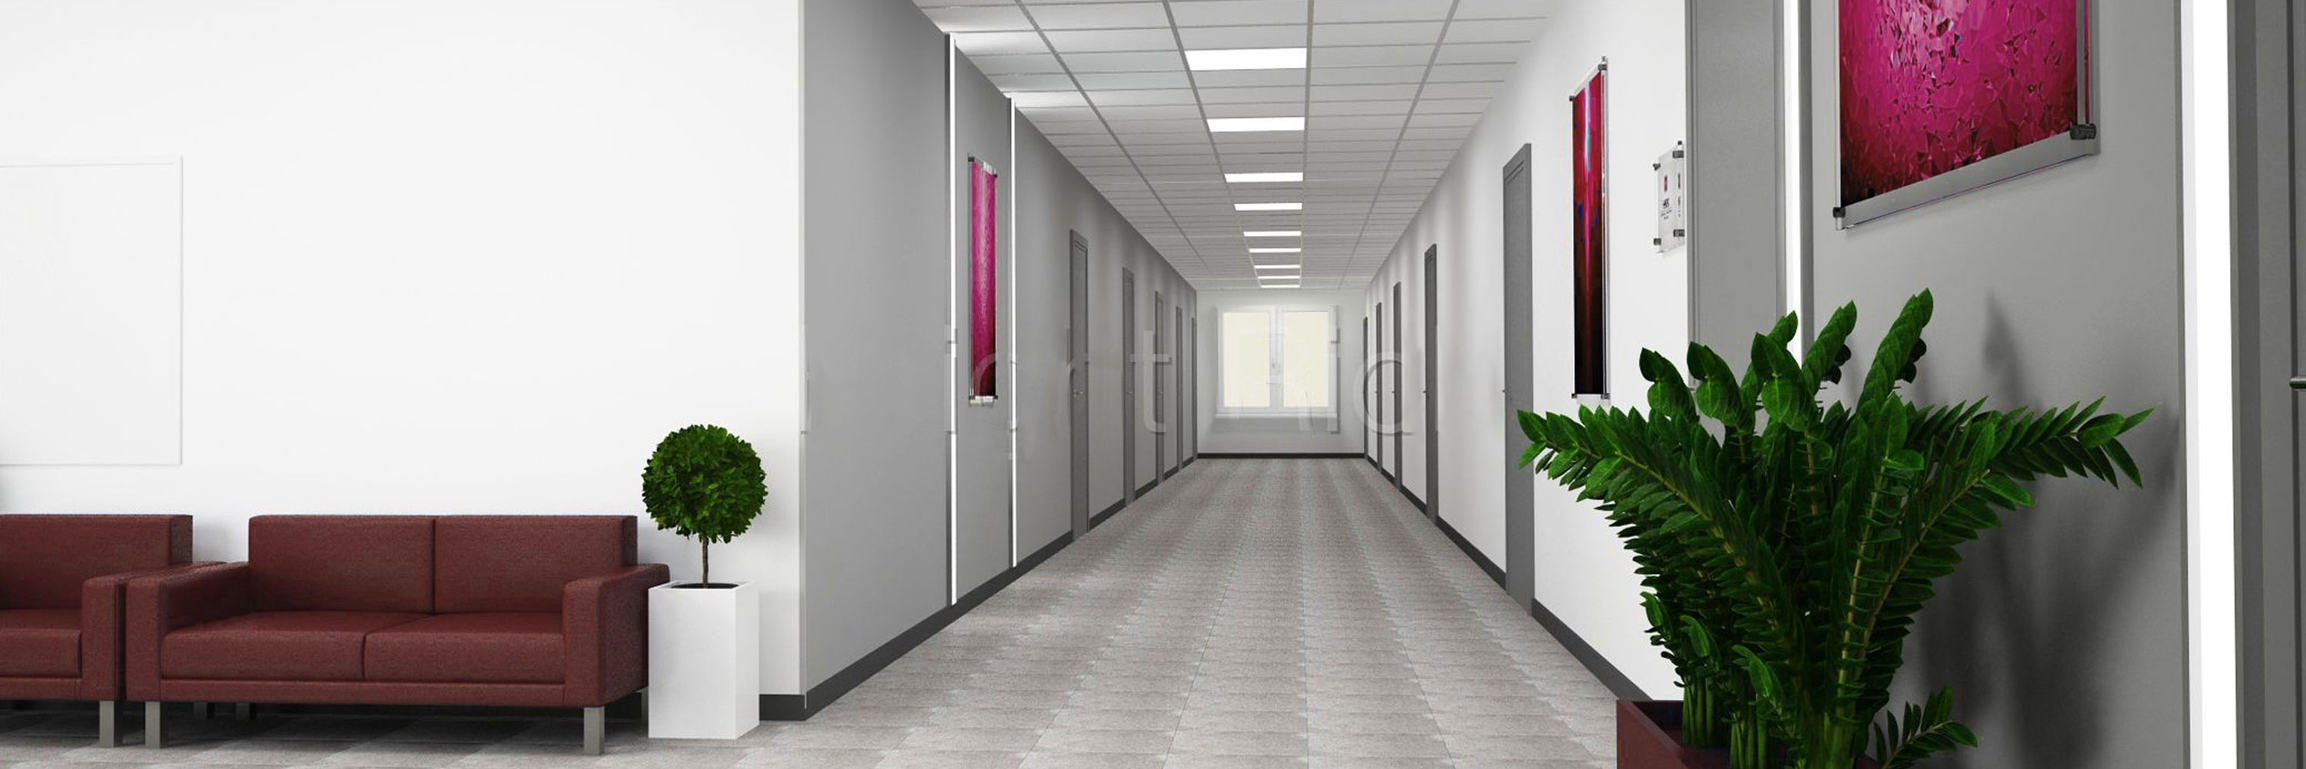
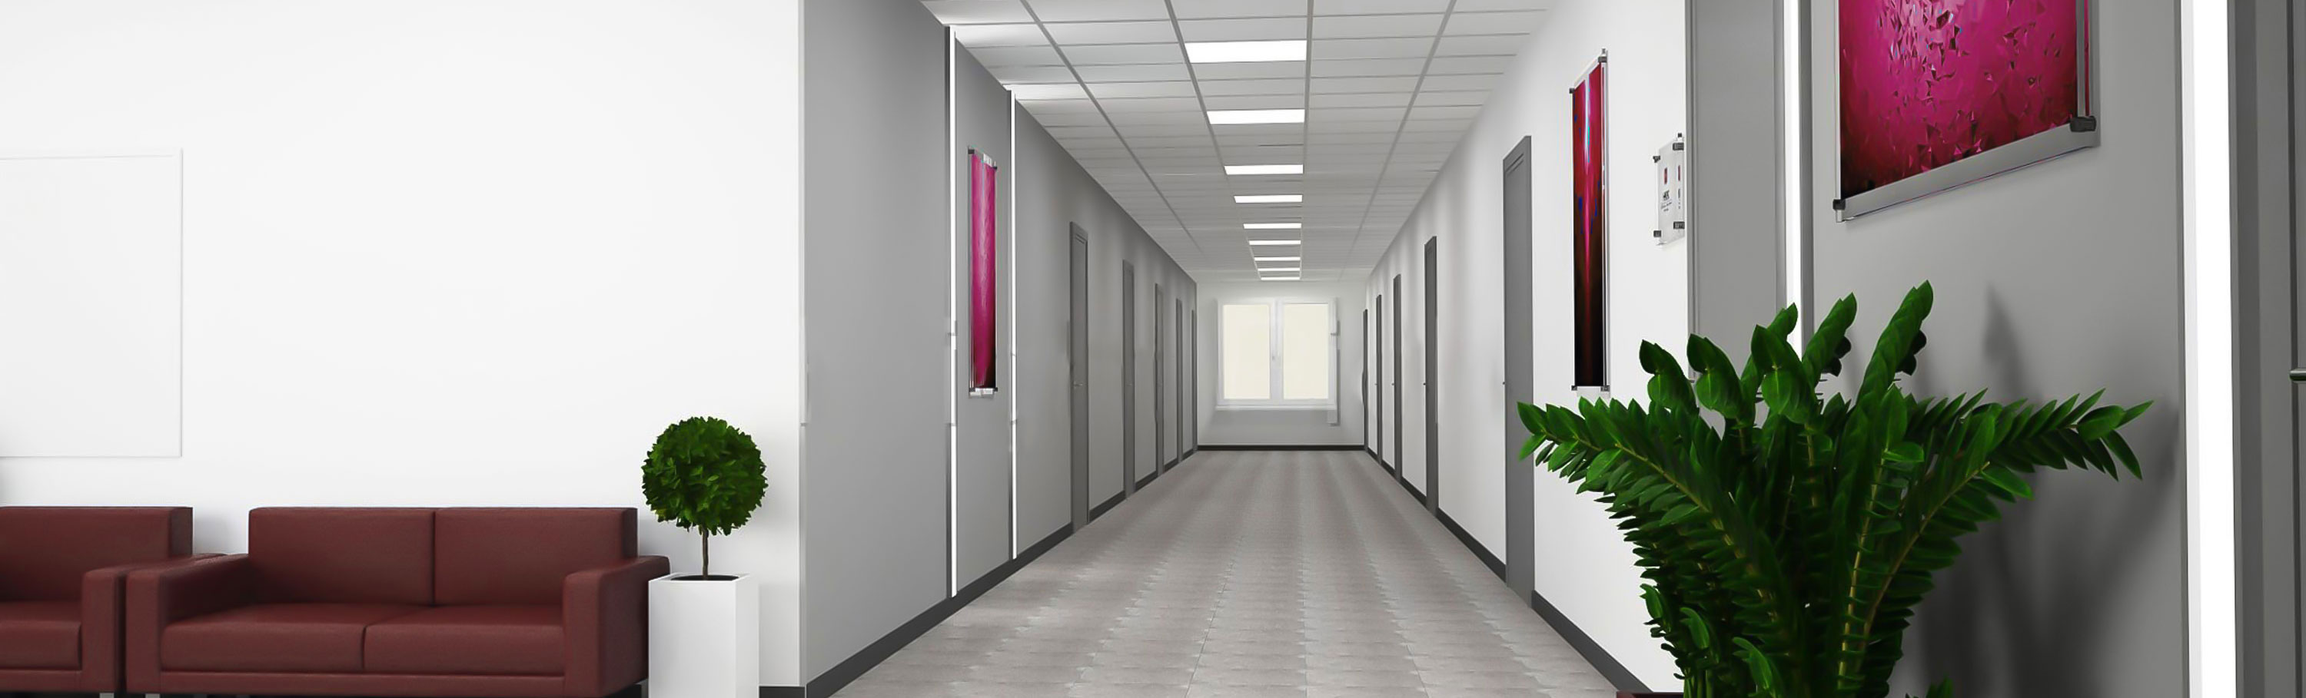
correct slider in about

diff --git a/src/about.html b/src/about.html
@@ -97,9 +97,19 @@
 
 <main class="main">
 
-  <section class="image-block__slide">
-    <img class="image-block__pict image-block__pict-01" src="img/image-block-02.jpg" alt="image">
-    <img class="image-block__pict image-block__pict-02" src="img/image-block-03.jpg" alt="image">
+  <section class="image-block">
+    <div class="image-block__slide">
+      <picture class="image-block__pict image-block__pict-01">
+      <source media="(min-width: 1095px)" srcset="img/image-block-02.jpg 1x">
+      <source media="(min-width: 1070px)" srcset="img/image-block-02-tablet@1x.jpg 1x">
+      <img src="img/image-block-02-mobile@1x.jpg" srcset="img/image-block-02-mobile@1x.jpg 1x" alt="Заставка слайдер">
+    </picture>
+    <picture class="image-block__pict image-block__pict-02">
+      <source media="(min-width: 1095px)" srcset="img/image-block-03.jpg 1x">
+      <source media="(min-width: 660px)" srcset="img/image-block-03-tablet@1x.jpg 1x">
+      <img src="img/image-block-03-mobile@1x.jpg" srcset="img/image-block-03-mobile@1x.jpg 1x" alt="Заставка слайдер">
+    </picture>
+    </div>
   </section>
 
   <article class="about">
@@ -113,25 +123,22 @@
       </section>
       <section class="about__block about__block-02">
         <h2 class="about__header">О нас</h2>
-        <p class="about__txt">Наша компания начала свою деятельность еще в 2001 году и за время работы существенно
-          модернизировала производство и расширила ассортимент печатной продукции. В своей работе мы всегда стремимся
-          использовать последние достижения отрасли и применять технологии, которых нет в других компаниях. И, как
-          показывает практика, нам это удается.</p>
+        <p class="about__txt">Void24.ru занимается разработкой и производством защитных технологических и <b>гарантийных этикеток</b>, инвентаризационных этикеток и пломб, стикеров с гильоширным рисунком, пломб void и других материалов в Москве. Мы создаем уникальные технологические решения, которые повысят безопасность вашей продукции, станут подтверждающими идентификаторами их оригинальности и конкурентным преимуществом вашего производства.</p>
+        <p class="about__txt">Мы активно поддерживаем внедрение новых технологий, расширяем ассортимент защитной этикеточной продукции.</p>
       </section>
       <section class="about__block about__block-03">
         <h2 class="visually-hidden">Изображение раздела</h2>
       </section>
       <section class="about__block about__block-04">
-        <h2 class="about__header">Что мы делаем</h2>
-        <p class="about__txt">В Void24 вы можете заказать оригинальную печатную продукцию:</p>
-        <p class="about__txt">Рекламные наклейки недорогой и удобный носитель рекламной информации, что нашел свое применение практически во всех отраслях производства.</p>
-        <p class="about__txt">Этикетки лицо любого современного бренда. Если хотите, чтобы ваш продукт узнавали, понадобиться качественная этикетка.</p>
-        <p class="about__txt">Все это мы делаем на собственных мощностях, материалы получаем от надежных поставщиков, а в производстве следуем последним европейским технологиям для лучшего результата. Вы можете обратиться к нам в любой момент и получить печать высшего качества за разумные деньги.</p>
+        <h2 class="about__header">Защита проверена временем</h2>
+        <p class="about__txt">Начиная от парфюмерного флакона духов и заканчивая объемными транспортными контейнерами  упаковки подвержены рискам взлома, кражи, подделок, фальсификата или неправильного использования. Для предупреждения подобных событий  используются современные решения – защитные самоклеющиеся материалы. Они обеспечивают высокий уровень защиты продукций разного типа и разной ценовой категории.</p>
+        <p class="about__txt">Используя наши гарантийные и защитные этикетки, вы держите под контролем доступ к товару даже за пределами вашего производства или склада по пути к конечному потребителю.</p>
       </section>
       <section class="about__block about__block-05">
-        <h2 class="about__header">Первоклассное оборудование основа успеха</h2>
-        <p class="about__txt">Мы в своей работе используем рулонные печатные машины HP Indigo, что отлично зарекомендовали себя как одни из лучших в своем сегменте. Они гарантируют высокое качество печати (даже выше, чем во флексографии), возможность оперативно изготавливать даже большие тиражи, а также создавать оригинальные упаковки.</p>
-        <p class="about__txt">Вам не придется тратить бюджет на подготовительные предпечатные работы. Здесь всего этого нет. Вы платите только за результат. Отсутствие печатных форм один из главных ключей к доступной стоимости. Ну и самое главное не обязательно печатать только крупные тиражи. Можно заказать даже небольшое количество экземпляров и заказывать новые партии по мере необходимости. Обращайтесь в любое время и пользуйтесь услугами профессионалов в полиграфии.</p>
+        <h2 class="about__header">Печатные технологии и оборудование</h2>
+        <p class="about__txt"><b>Изготовление защитных этикеток</b> осуществляется на высокоточном оборудовании, используя флексографический тип печати.  При этом мы используем специальные полимерные материалы и способы  печати изображений, которые при неправильном использовании будут разрушаться, указывая на несанкционированный доступ.</p>
+        <p class="about__txt">Кроме того, наше оборудование позволяет работать не только с цветом, изображением, надписью, но и с формой создания этикеток. Мы реализуем индивидуальные проекты заказчиков, создавая уникальные материалы с идентифицирующей информацией и многоуровневой защитой.</p>
+        <p class="about__txt">Используя высокие печатные технологии, специализированные материалы и современное высокоточное оборудование мы стремимся к доступной стоимости создания защитных этикеток, даже выпускаемых большими тиражами.</p>
       </section>
       <section class="about__block about__block-06">
         <h2 class="visually-hidden">Изображение раздела</h2>
@@ -139,15 +146,46 @@
     </div>
   </article>
 
+  <section class="info">
+    <div class="info__intro">
+      <h2 class="visually-hidden">Использование защитных наклеек</h2>
+      <h3 class="info__header2">Сферы использования защитных наклеек</h3>
+      <p class="info__txt">Необратимое изменение внешнего вида защитных этикеток сигнализирует производителям о попытке вскрыть упаковку, а покупателю расскажет о том, что до них никто не использовал данную технику, косметические средства или фармацевтические препараты.</p>
+      <p class="info__txt">Защитные наклейки используются для: </p>
+      <ul class="info__txt-list">
+        <li class="info__txt-item">Маркировки продукции с нанесением  даты, идентификатора производителя и др.;</li>
+        <li class="info__txt-item">Продуктовых емкостей;</li>
+        <li class="info__txt-item">Защиты скрепляемых материалов для контроля этапов сборки;</li>
+        <li class="info__txt-item">Пломбировка входных дверей, холодильного оборудования, хранилища и др.;</li>
+        <li class="info__txt-item">Защиты видео и аудиопродукции;</li>
+        <li class="info__txt-item">Защиты измерительных счетчиков и др.</li>
+      </ul>
+      <p class="info__txt">Мы готовы создать уникальный защитный продукт для вашего бизнеса, который станет залогом доверия ваших покупателей. Обращайтесь к нам уже сегодня!</p>
+    </div>
+  </section>
+
+  <section class="image-block">
+    <picture class="image-block__full">
+      <source media="(min-width: 1095px)" srcset="img/about-image-block-01.jpg 1x">
+      <source media="(min-width: 660px)" srcset="img/about-image-block-01-tablet@1x.jpg 1x">
+      <img src="img/about-image-block-01-mobile@1x.jpg" srcset="img/about-image-block-01-mobile@1x.jpg 1x" alt="материал Fasson SECURITY">
+    </picture>
+  </section>
 
   <section class="invite">
+    <a href="#" class="invite__link">Заказать</a>
     <div class="invite__intro">
-      <h2 class="invite__header">Давайте работать вместе</h2>
-      <p class="invite__txt">Перед современными производителями стоит серьезная задача – гарантировать качество своей
-        продукции, защиту от фальсификата и подмены. Способов для этого существует много, но по праву одним из наиболее
-        эффективных считаются этикетки контроля вскрытия и пломбы. При своей простоте и доступной стоимости такие
-        этикетки способны надежно защитить ваш товар от вскрытия и гарантировать, что на рынке не появится фальсификат,
-        который рядовой покупатель не сможет отличить от оригинала.</p>
+      <h2 class="invite__header">Мы предлагаем</h2>
+      <p class="invite__txt">Защитные технологии от Void24.ru  поднимают конкурентоспособность вашей продукции, а также мы предлагаем:</p>
+      <ul class="invite__txt-list">
+        <li class="invite__txt-item">Индивидуальные решения для сохранения безопасности товара;</li>
+        <li class="invite__txt-item">Гарантии уверенности от контроля вскрытия с помощью защитных наклеек;</li>
+        <li class="invite__txt-item">Безопасность здоровья пациентов с помощью фармацевтических наклеек;</li>
+        <li class="invite__txt-item">Высокотехнологичные защитные этикетки;</li>
+        <li class="invite__txt-item">Уникальные этикетки Void;</li>
+        <li class="invite__txt-item">Гарантийные пломбы и наклейки;</li>
+        <li class="invite__txt-item">Инвентаризационные пломбы и наклейки.</li>
+      </ul>
     </div>
   </section>
 

diff --git a/src/css/style.css b/src/css/style.css
@@ -487,6 +487,20 @@ html {
   margin-top: 10px;
   margin-bottom: 30px;
 }
+.info__txt-list {
+  padding-top: 4px;
+  padding-bottom: 4px;
+  padding-left: 20px;
+  font-size: 16px;
+  font-weight: 400;
+  font-style: italic;
+  line-height: 26px;
+  color: #696969;
+  margin-bottom: 20px;
+}
+.info__txt-item {
+  margin-bottom: 12px;
+}
 .image-block {
   width: 100%;
   height: auto;
@@ -495,7 +509,6 @@ html {
   position: relative;
   display: flex;
   width: 100%;
-  height: 1000px;
 }
 .image-block__pict {
   position: absolute;
@@ -756,7 +769,7 @@ html {
 }
 .about__block-02 {
   grid-area: block2;
-  padding: 30px;
+  padding: 80px;
   transition: 1.5s;
 }
 .about__block-02:hover {
@@ -778,12 +791,12 @@ html {
   display: flex;
   flex-direction: column;
   margin: 0;
-  padding: 22px;
+  padding: 40px;
   background-color: rgba(255, 196, 223, 0.2);
 }
 .about__block-05 {
   grid-area: block5;
-  padding: 50px;
+  padding: 70px;
 }
 .about__block-06 {
   grid-area: block6;
@@ -1181,6 +1194,15 @@ html {
   .info__block {
     width: calc(91.66666666666667% - 0px);
   }
+  .image-block {
+    margin-bottom: 70px;
+  }
+  .invite {
+    flex-direction: column-reverse;
+  }
+  .invite__link {
+    margin-top: 50px;
+  }
   .invite__intro {
     margin-left: 0px;
     margin-right: 0px;
@@ -1322,6 +1344,9 @@ html {
   }
 }
 @media screen and (min-width: 960px) {
+  .image-block__slide {
+    height: 400px;
+  }
   .about__items {
     width: 70%;
     margin: 0 auto;
@@ -1428,6 +1453,9 @@ html {
   .info__block {
     width: calc(50% - 10px);
   }
+  .image-block__slide {
+    height: 400px;
+  }
   .invite__intro {
     width: calc(50% - 10px);
   }
@@ -1440,6 +1468,9 @@ html {
   }
   .footer {
     display: block;
+  }
+  .about {
+    margin-top: 50px;
   }
   .about__items {
     width: 70%;
@@ -1472,6 +1503,12 @@ html {
   .debug > div {
     padding-left: 30px;
     padding-right: 30px;
+  }
+  .image-block__slide {
+    height: 700px;
+  }
+  .about {
+    margin-top: 90px;
   }
   .about__items {
     max-width: 1280px;

diff --git a/src/less/blocks/about.less b/src/less/blocks/about.less
@@ -1,5 +1,13 @@
 .about {
   width: 100%;
+
+  .xlg-block({
+    margin-top: 90px;
+  });
+
+  .lg-block({
+    margin-top: 50px;
+  });
 }
 
 .about__items {
@@ -60,7 +68,7 @@
 
 .about__block-02 {
   grid-area: block2;
-  padding: 30px;
+  padding: 80px;
   transition: 1.5s;
 
   &:hover {
@@ -85,13 +93,13 @@
   display: flex;
   flex-direction: column;
   margin: 0;
-  padding: 22px;
+  padding: 40px;
   background-color: fade(@exlight, 20%);
 }
 
 .about__block-05 {
   grid-area: block5;
-  padding: 50px;
+  padding: 70px;
 }
 
 .about__block-06 {

diff --git a/src/less/blocks/image-block.less b/src/less/blocks/image-block.less
@@ -1,13 +1,28 @@
 .image-block {
   width: 100%;
   height: auto;
+
+  .xxs-block({
+    margin-bottom: 70px;
+  });
 }
 
 .image-block__slide {
   position: relative;
   display: flex;
   width: 100%;
-  height: 1000px;
+
+  .xlg-block({
+    height: 700px;
+  });
+
+  .lg-block({
+    height: 400px;
+  });
+
+  .md-block({
+    height: 400px;
+  });
 }
 
 .image-block__pict {

diff --git a/src/less/blocks/invite.less b/src/less/blocks/invite.less
@@ -9,6 +9,10 @@
   max-width: 800px;
   overflow: hidden;
 
+  .xxs-block({
+    flex-direction: column-reverse;
+  });
+
 }
 
 .invite__link {
@@ -34,6 +38,10 @@
   &:active {
     background-color: @dark;
   }
+
+  .xxs-block({
+    margin-top: 50px;
+  });
 }
 
 .invite__intro {

diff --git a/src/less/blocks/info.less b/src/less/blocks/info.less
@@ -62,3 +62,13 @@
 }
 
 
+.info__txt-list {
+  .txt-list();
+  margin-bottom: 20px;
+}
+
+.info__txt-item {
+  margin-bottom: 12px;
+
+}
+
